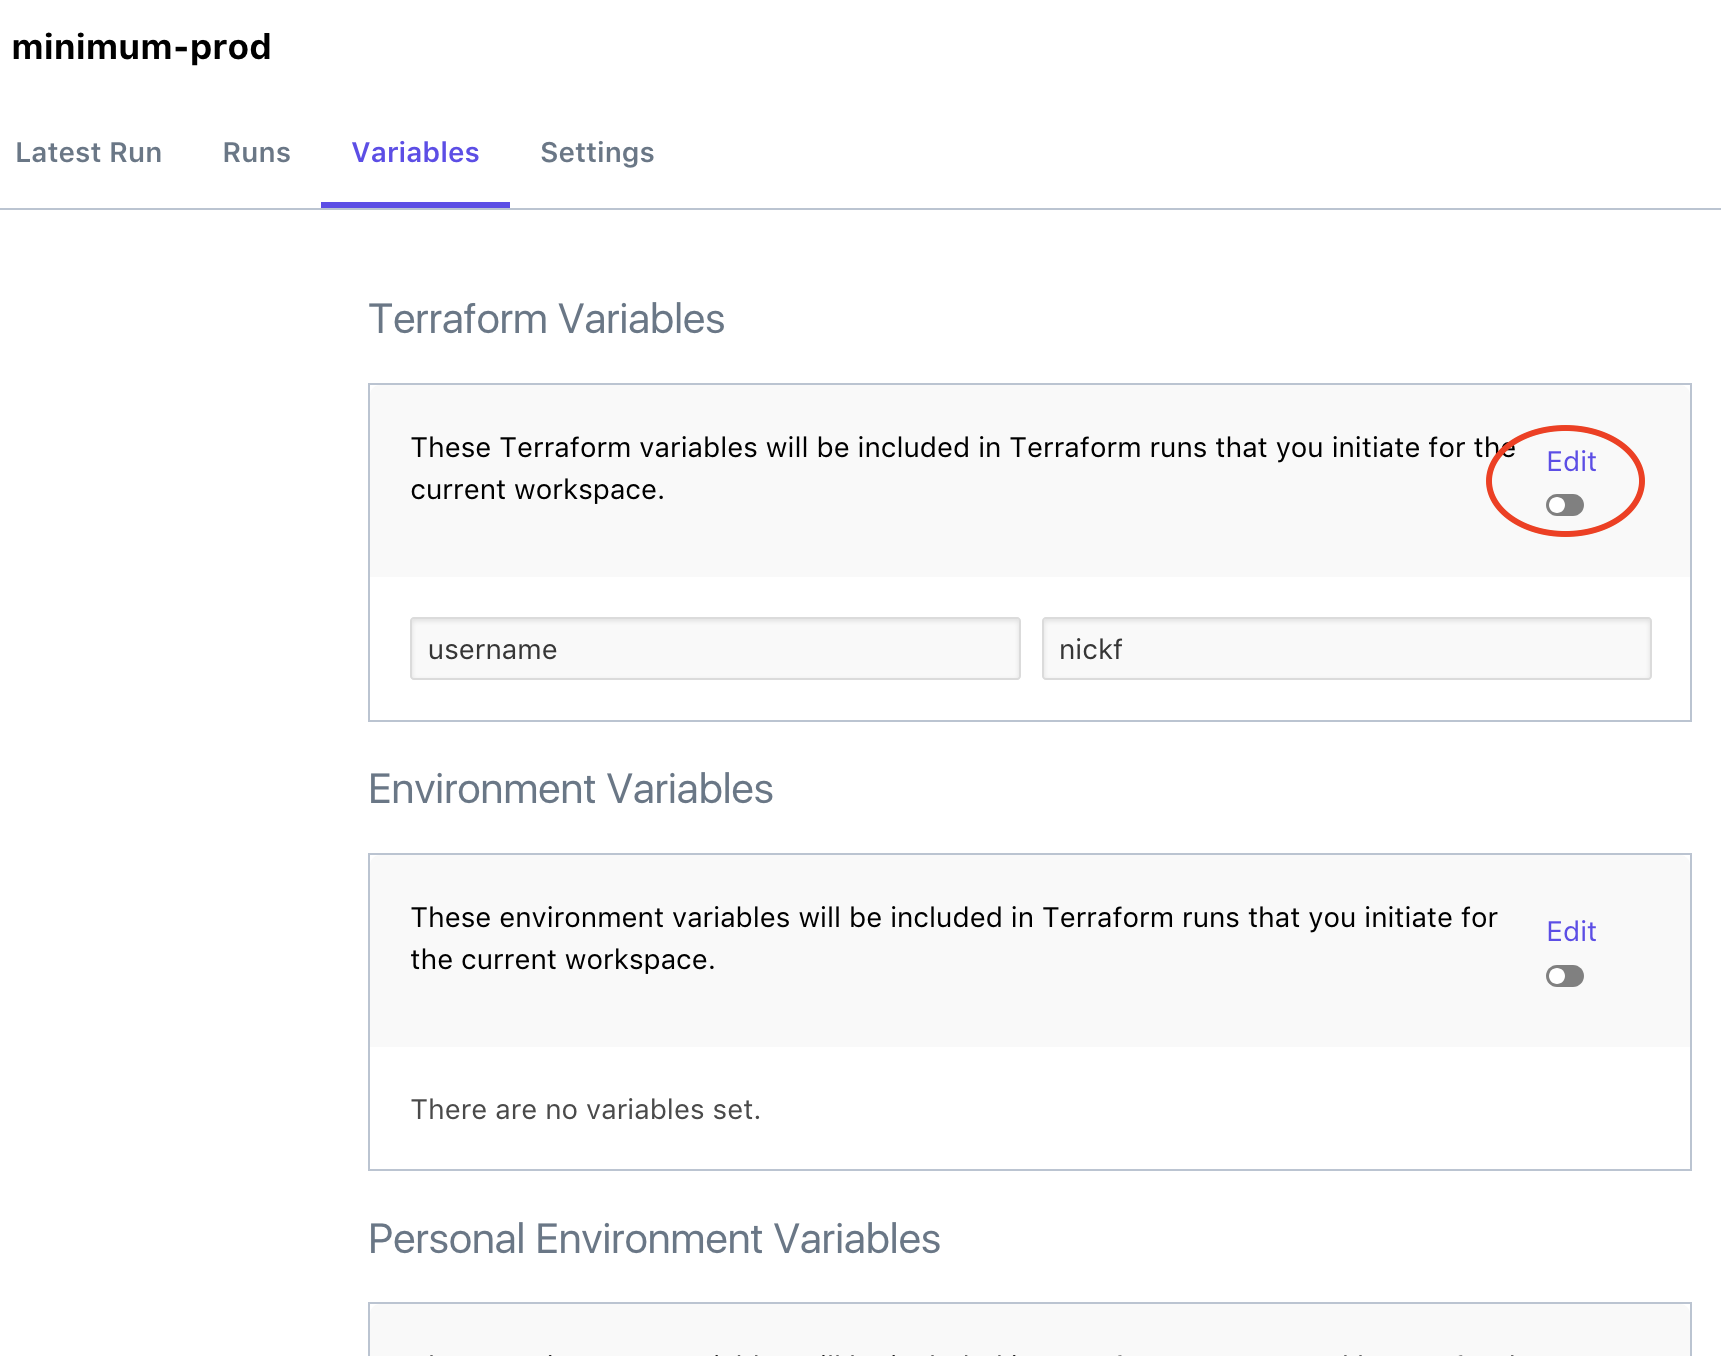
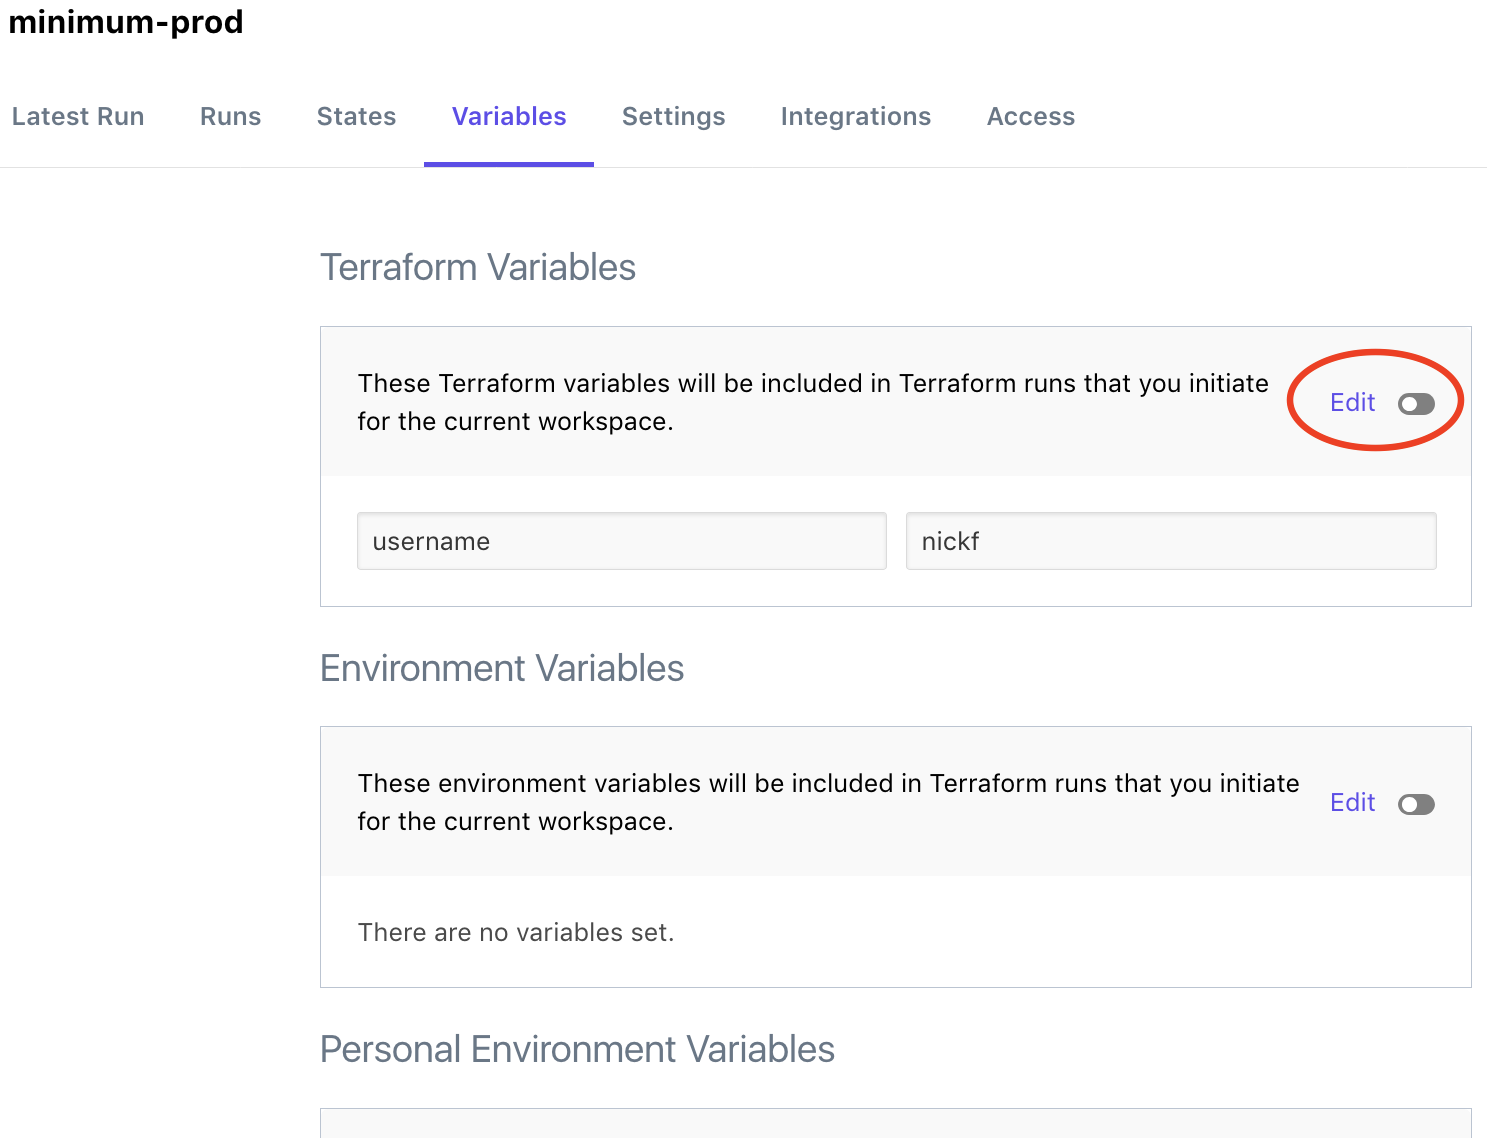
Getting started: Add info about team permissions

diff --git a/content/source/docs/enterprise-beta/getting-started/workspaces.html.md b/content/source/docs/enterprise-beta/getting-started/workspaces.html.md
@@ -20,9 +20,11 @@ A workspace consists of:
 * Values for any variables those configurations require.
 * Persistent stored state for the resources it manages.
 
-A well-designed Terraform workflow uses multiple codebases, so you can manage each logical grouping of infrastructure with its own set of Terraform configurations. Additionally, it's common to use the same group of configurations multiple times (with different values for variables) to manage different environments.
+A well-designed Terraform workflow uses multiple configurations, so you can manage each logical grouping of infrastructure with its own code. Additionally, it's common to use the same configuration multiple times (with different values for variables) to manage different environments.
 
 ## Creating a Workspace
+
+~> **Note:** Currently, only members of the "owners" team can create new workspaces.
 
 First, make sure you're on TFE's front page. If you're still on the VCS settings (or any other page), click the Terraform logo button in the upper left and choose "Terraform Enterprise (Beta)".
 
@@ -40,9 +42,9 @@ On the "Create a new Workspace" page, you need to enter at least two items: a wo
 
 ### Workspace Name
 
-A workspace name should tell your colleagues what the workspace is for. Most workspaces are _a particular environment_ of _a particular codebase,_ so the name should include both the name of the codebase and the name of the environment.
+A workspace name should tell your colleagues what the workspace is for. Most workspaces are _a particular environment_ of _a particular Terraform configuration,_ so the name should include both the name of the configuration and the name of the environment.
 
-In this example, we're using a codebase named "minimal" and we're deploying it in a production environment, so we named it `minimal-prod`.
+In this example, we're using a configuration named "minimal" and we're deploying it in a production environment, so we named it `minimal-prod`.
 
 ### Repository
 
@@ -71,7 +73,7 @@ When you create a new workspace, a few things happen:
 
 ## Editing Variables
 
-For almost any Terraform codebase, you'll want to edit the Terraform variables and environment variables used by the code.
+For almost any workspace, you'll want to edit the Terraform variables and environment variables used by the code.
 
 You can edit variables as soon as you've created a workspace, by clicking the workspace's "Variables" tab.
 
@@ -84,6 +86,28 @@ To edit one of these sections, click the "Edit" control. You can then add, modif
 ![editing a variables list](./images/work-var-editing.png)
 
 Terraform variables start as basic string values, but you can also enter array or map values if you click the "HCL" checkbox for that variable. You can write these values with the same syntax you'd use in a Terraform configuration.
+
+## Granting Access
+
+The user account that created your organization is part of the "owners" team, which can do any action on any workspace. Most of your colleagues don't need that level of access; instead, an administrator can give them access to the specific workspaces they need to use.
+
+TFE manages access with _teams._ In your organization's settings, you can create any number of teams and add users to them — earlier in this getting started guide, you might have [already created a team](./access.html#adding-other-users-to-an-organization) to bring other users into your organization. If you haven't done that yet, do it now.
+
+Once you have some teams, you can add them to a workspace by clicking the "Access" tab:
+
+![managing team access to a workspace](./images/work-access.png)
+
+A newly created workspace can't be used by anyone but the "owners" team; other teams can't even see it. To enable collaboration on a workspace, you must add other teams to it.
+
+To add a team to a workspace, select it from the dropdown menu and choose which permissions the team should have. There are three levels of permissions available:
+
+- **Read** access lets team members view the workspace's variables and settings, view its run history, and view its StateVersions and ConfigurationVersions. They can't queue run plans, apply existing run plans, or change any variables or settings.
+- **Write** access lets team members create and approve runs, and lock or unlock the workspace. It doesn't let them change variables or settings.
+- **Admin** access lets team members change variables and settings, add other teams to the workspace, remove other teams from the workspace, and delete the workspace.
+
+To change a team's permissions on a workspace, you must first delete their existing permissions, then add their new permissions.
+
+~> **Note:** These permissions only affect actions via TFE's UI and API. If a person can push commits to a workspace's VCS repo and the workspace is set to automatically apply changes, that person can still make infrastructure changes. Take this into account when planning your teams and workspace permissions.
 
 ## Configuring a Workspace
 

diff --git a/content/source/docs/enterprise-beta/getting-started/runs.html.md b/content/source/docs/enterprise-beta/getting-started/runs.html.md
@@ -22,6 +22,8 @@ TFE enforces Terraform's division between _plan_ and _apply_ operations. It alwa
 There are two ways to start a run in a workspace:
 
 - Manually queuing a plan, by clicking the "Queue Plan" button in the upper right of a workspace. This is useful when you've edited some variables and need to update your infrastructure accordingly.
+
+    Manually queueing a plan requires write or admin access.
 - Automatically queuing a plan by committing to version control. (TFE always registers a VCS webhook when you create a new workspace, although you can later delete the webhook to prevent automatic runs.)
 
 ### Per-Workspace Queues
@@ -84,10 +86,14 @@ When you've finished reviewing the output of a plan, use one of these buttons to
 
 Note that until you apply or discard a plan, TFE can't start another run in that workspace.
 
+#### Auto apply
+
+By default, run plans require confirmation. If you would rather automatically apply plans that don't have errors, you can enable auto apply on the workspace's settings tab.
+
 ## Preventing Runs
 
 If you need to temporarily stop runs from being queued, you can lock the workspace.
 
-You can find the lock button in the workspace settings page.
+You can find the lock button in the workspace settings page. Locking a workspace requires write or admin access.
 
 

diff --git a/content/source/docs/enterprise-beta/users-teams-organizations/permissions.html.md b/content/source/docs/enterprise-beta/users-teams-organizations/permissions.html.md
@@ -6,9 +6,9 @@ sidebar_current: "docs-enterprise2-users-teams-organizations-permissions"
 
 # Permissions
 
-Teams can be given read, write, or admin permissions on workspaces.
+Teams can have **read, write,** or **admin** permissions on workspaces.
 
-**Read**
+## Read
 
 Can read any information on the workspace including:
 
@@ -18,19 +18,19 @@ Can read any information on the workspace including:
 
 Cannot do anything which alters state of the above.
 
-**Write**
+## Write
 
 Can do everything the read access level can do plus:
 
 - Execute functions which alter state of the above models
-- Create and approve Runs.
-- Lock and Unlock the Workspace
+- Create and approve runs.
+- Lock and unlock the workspace
 
-**Admin**
+## Admin
 
 Can do everything the write access level can do, plus:
 
-- Read and Write Variables on the workspace
+- Read and write variables on the workspace
 - Delete the workspace
-- Add and Remove Teams from the Workspace at any access level
-- Read and Write Workspace settings (VCS config, etc)
+- Add and remove teams from the workspace at any access level
+- Read and write workspace settings (VCS config, etc)

diff --git a/content/source/docs/enterprise-beta/getting-started/access.html.md b/content/source/docs/enterprise-beta/getting-started/access.html.md
@@ -61,7 +61,7 @@ Once the team is created, click its name. This will navigate to the team page:
 
 Add as many users as you'd like by typing their TFE username in the text field and clicking "Add user." Added users won't receive a notification, but your organization will be available the next time they access TFE beta.
 
-~> **Important:** Currently, TFE beta does not have access controls for workspaces; these are coming soon in a future update. Users you add to your organization have full permissions for every workspace in it.
+~> **Note:** Team membership is how TFE controls access to workspaces. Later, you can create more teams and assign them different permissions on a per-workspace basis.
 
 ## Next Steps
 
